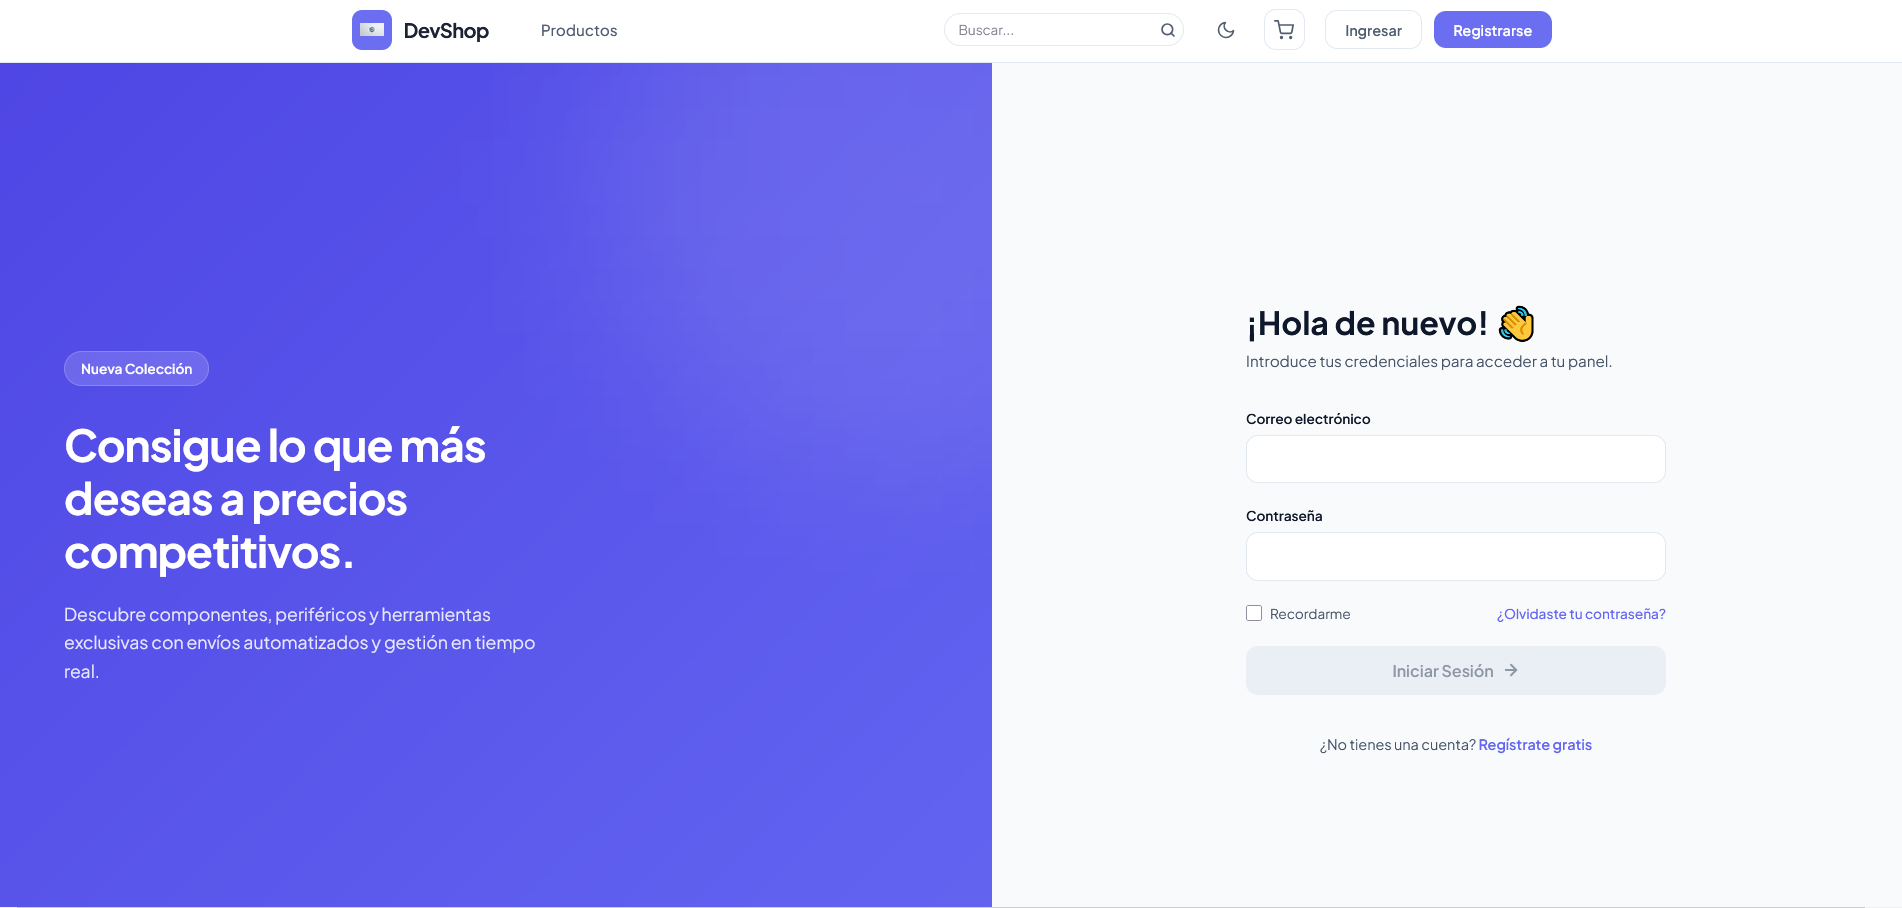
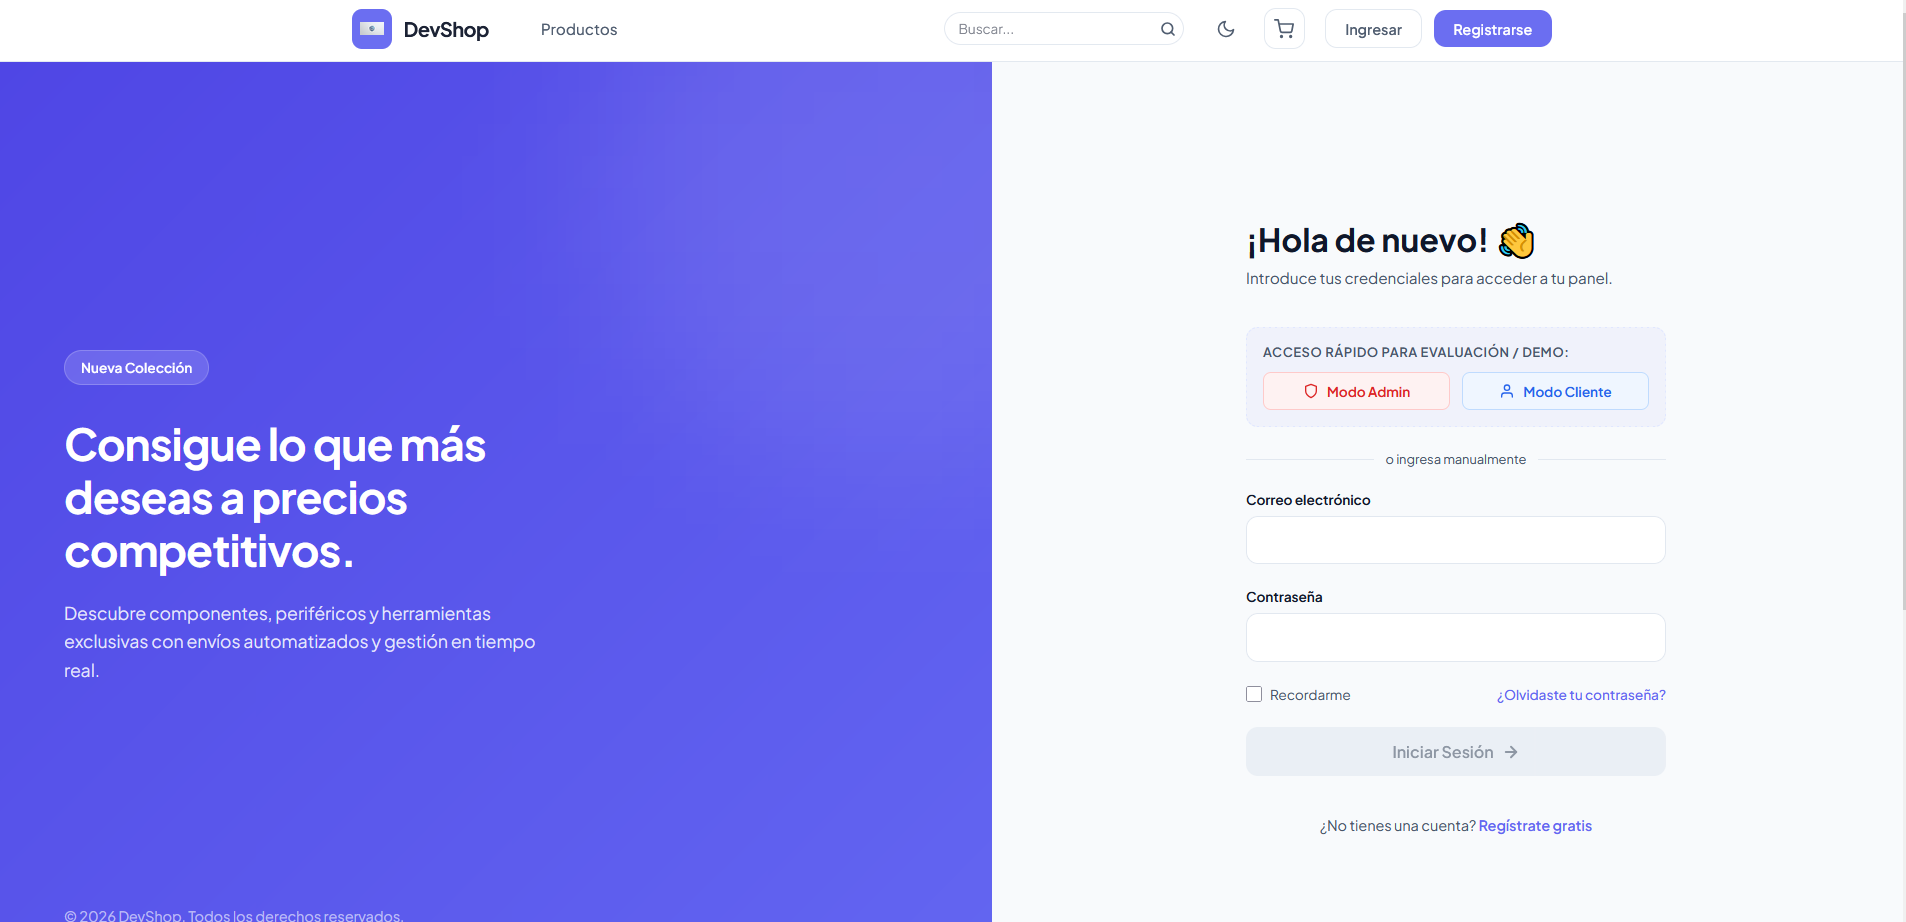
Ahora en la seccion de contacto cuando rellenas los campos se resetea y no se quedan las letras, tambien incluimos un feedback al envio

diff --git a/js/script.js b/js/script.js
@@ -20,7 +20,7 @@ const translations = {
 
     aboutCard1: "Experiencia industrial en producción, calidad y gestión de equipos",
     aboutCard2: "Finalizando Grado en Desarrollo de Aplicaciones Web",
-    aboutCard3: "Java Spring Boot + Angular + Docker + PostgreSQL",
+    aboutCard3: "Java Spring Boot + Angular + React + Docker + PostgreSQL",
     
     aboutTitle: "Sobre mí",
     aboutText: `Tras más de diez años en el mundo industrial, decidí actualizar mi carrera para centrarme en el desarrollo web.<br><br> 
@@ -83,7 +83,7 @@ const translations = {
 
     aboutCard1: "Industrial experience in production, quality and team management",
     aboutCard2: "Finishing Degree in Web Application Development (DAW)",
-    aboutCard3: "Java Spring Boot + Angular + Docker + PostgreSQL",
+    aboutCard3: "Java Spring Boot + Angular + React + Docker + PostgreSQL",
        
     aboutTitle: "About me",
     aboutText: `After more than ten years in the industrial sector, I decided to update my career to focus on web development.<br><br> 
@@ -288,3 +288,56 @@ document.querySelectorAll('.nav-links a').forEach(link => {
     }
   });
 });
+
+/* ----------- RESETEAR Y ESTADO DE CARGA EN FORMULARIO ----------- */
+const contactForm = document.querySelector(".contact-form");
+const submitBtn = document.getElementById("submitBtn");
+const formStatus = document.getElementById("formStatus");
+
+if (contactForm) {
+  contactForm.addEventListener("submit", async function (e) {
+    e.preventDefault();
+
+    // 1. Guardar texto original y activar estado de carga
+    const originalBtnText = submitBtn.innerHTML;
+    submitBtn.disabled = true;
+    submitBtn.style.opacity = "0.7";
+    submitBtn.style.cursor = "not-allowed";
+    submitBtn.innerHTML = `<i class="fa-solid fa-spinner fa-spin"></i> Enviando...`;
+    
+    formStatus.style.display = "none";
+
+    const formData = new FormData(this);
+
+    try {
+      const response = await fetch(this.action, {
+        method: this.method,
+        body: formData,
+        headers: {
+          'Accept': 'application/json'
+        }
+      });
+
+      if (response.ok) {
+        // 2. Feedback de éxito y reseteo
+        formStatus.textContent = "¡Mensaje enviado con éxito! Te responderé lo antes posible.";
+        formStatus.style.color = "#2ef072"; // Verde o el color acentuado de tu tema
+        formStatus.style.display = "block";
+        this.reset();
+      } else {
+        throw new Error("Respuesta de servidor no válida");
+      }
+    } catch (error) {
+      // 3. Feedback de error
+      formStatus.textContent = "Ocurrió un error al enviar el mensaje. Inténtalo de nuevo.";
+      formStatus.style.color = "#ff4d4d";
+      formStatus.style.display = "block";
+    } finally {
+      // 4. Restaurar el botón a su estado original
+      submitBtn.disabled = false;
+      submitBtn.style.opacity = "1";
+      submitBtn.style.cursor = "pointer";
+      submitBtn.innerHTML = originalBtnText;
+    }
+  });
+}

diff --git a/index.html b/index.html
@@ -284,7 +284,9 @@
          <input type="text" name="name" placeholder="Tu nombre" data-key="placeholderName" required> 
          <input type="email" name="email" placeholder="Tu email" data-key="placeholderEmail" required> 
          <textarea name="message" placeholder="Escribe tu mensaje..." data-key="placeholderMessage" required></textarea>
-         <button type="submit" data-key="sendMessage">Enviar mensaje</button> 
+         <button type="submit" id="submitBtn" data-key="sendMessage">Enviar mensaje</button>
+         <!-- Contenedor para mensajes de feedback -->
+         <p id="formStatus" style="display: none; margin-top: 15px; font-weight: bold; text-align: center;"></p>
        </form>
      
         <div class="contact-links">
